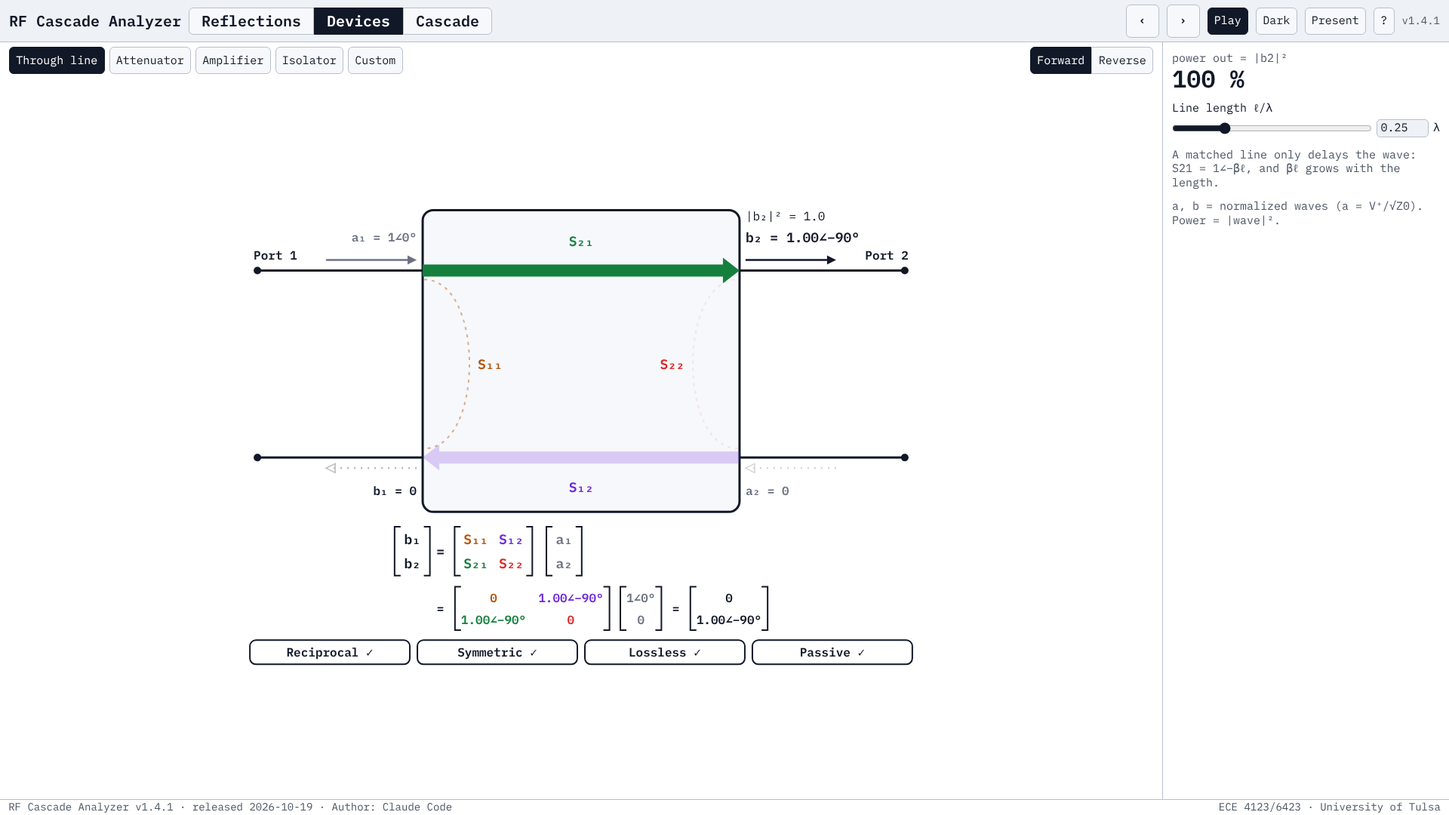
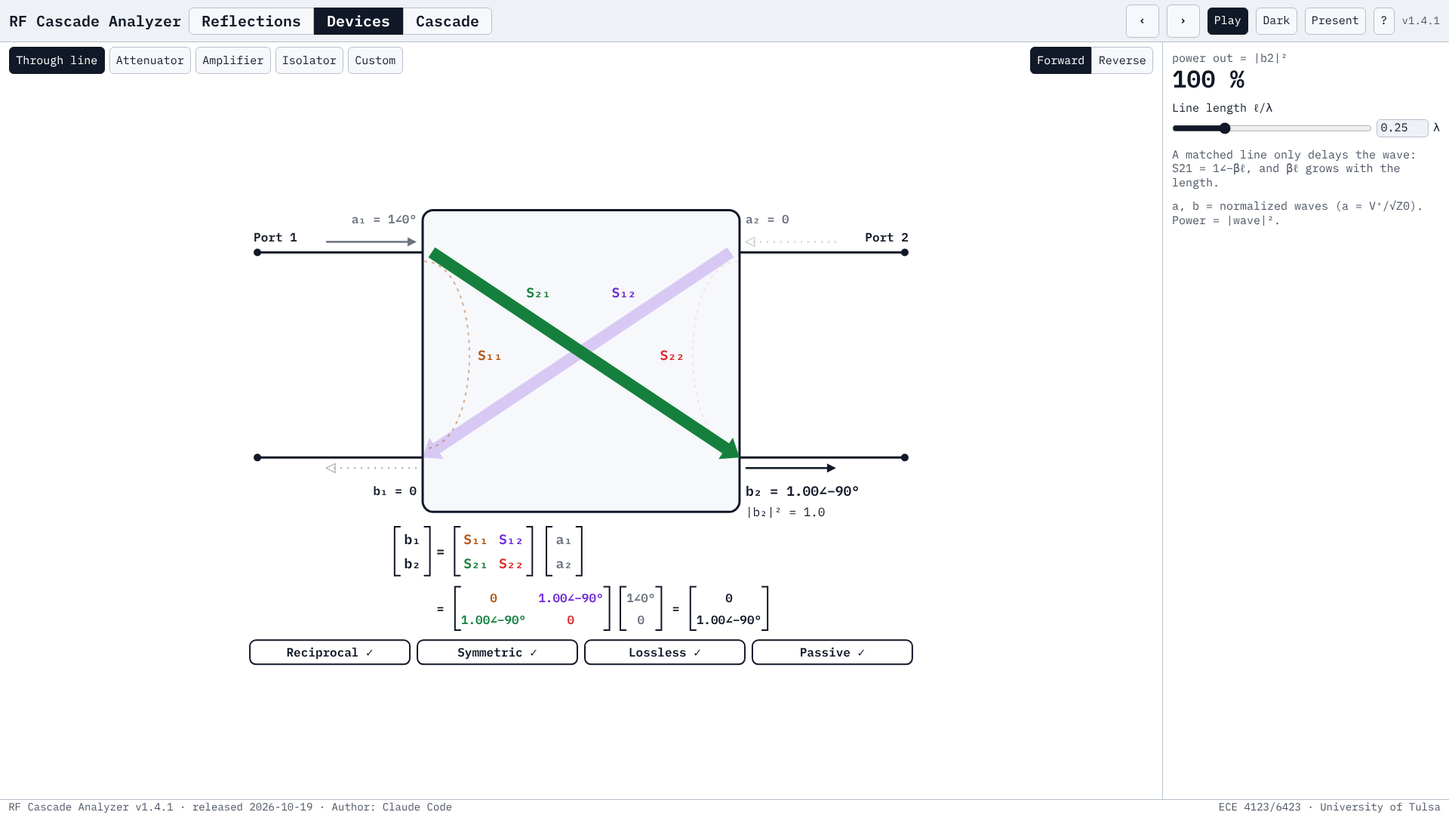
RF Cascade Analyzer v1.4.1: Devices as the textbook two-port signal-flow graph
Per Douglas: a on top and b on the bottom at both ports. Each port's two
terminal wires sit at its a node (top) and b node (bottom); a1 and a2
come in above the top wires, b1 and b2 go out below the bottom wires
(the power line below the driven b label). Inside, S21 runs a1 -> b2 and
S12 a2 -> b1 as crossing diagonals (power-tapered as before, drawn along
a rotated axis), S11 runs a1 -> b1 down port 1 and S22 a2 -> b2 down
port 2. Tests updated (node positions, sampled outlines for the diagonal
lanes).

Claude-Session: https://claude.ai/code/session_01K91XZ2Ca3dbV4NeCriL9c8

Changed region(s): [[0.1562, 0.2444, 0.625, 0.5806], [0.5312, 0.5806, 0.5938, 0.6111], [0.3125, 0.4278, 0.3438, 0.4583]]

diff --git a/ece-4123/RF_Cascade_Analyzer_src/tests/browser.test.js b/ece-4123/RF_Cascade_Analyzer_src/tests/browser.test.js
@@ -136,17 +136,19 @@ const devGapIssues = page => page.evaluate(() => {
   g('matrix rows from left edge', Math.min(mat.left, num.left) - svg.left, 16); g('matrix rows from divider', svg.right - Math.max(mat.right, num.right), 16);
   g('row 1 → row 2', num.top - mat.bottom, 4);
   const pl = [...document.querySelectorAll('#stage .portline')], cyOf = e => { const r = R(e); return (r.top + r.bottom) / 2; };
-  const yT = cyOf(document.querySelector('#stage .lane.s21')), yB = cyOf(document.querySelector('#stage .lane.s12'));
+  const ends = k => { const e = document.querySelector('#stage .lane.' + k), M = e.getScreenCTM(), xs = e.getAttribute('d').match(/-?[\d.]+/g).map(Number).filter((_, i) => i % 2 === 0), P = (x, y) => new DOMPoint(x, y).matrixTransform(M); return [P(0, 0), P(Math.max(...xs), 0)]; };
+  const yT = ends('s21')[0].y, yB = ends('s21')[1].y;   // the a nodes (top) and b nodes (bottom)
   if(pl.length !== 4) bad.push('port wires: ' + pl.length);
   if(document.querySelectorAll('#stage .term').length !== 4) bad.push('terminal dots: ' + document.querySelectorAll('#stage .term').length);
   pl.forEach(l => { const r = R(l), cs = getComputedStyle(l), port = l.dataset.port;
     if(cs.strokeDasharray !== 'none' || l.closest('[opacity]') || l.getAttribute('stroke') !== 'var(--txt)' || +l.getAttribute('stroke-width') !== 3) bad.push('port line ' + port + ' not solid');
     const y = (r.top + r.bottom) / 2; if(Math.min(Math.abs(y - yT), Math.abs(y - yB)) > 1) bad.push('port wire ' + port + ' not in line with a lane');
     if(port === '1' ? (Math.abs(r.left - svg.left - 21 * k) > 1 || Math.abs(r.right - box.left) > 2) : (Math.abs(svg.right - r.right - 21 * k) > 1 || Math.abs(r.left - box.right) > 2)) bad.push('port line ' + port + ' ends'); });
-  const inkR = [...document.querySelectorAll('#stage .lane, #stage .uturn, #stage .brk')].map(e => { const r = R(e), sw = parseFloat(getComputedStyle(e).strokeWidth) || 0, o = e.classList.contains('uturn') ? sw / 2 * k : 0;
-    return { l: r.left - o, r: r.right + o, t: r.top - o, b: r.bottom + o }; });
+  // the paths' outlines sampled on screen (lanes may be diagonal, so their boxes say nothing), less half a stroke
+  const ink = [...document.querySelectorAll('#stage .lane, #stage .uturn, #stage .brk')].flatMap(e => { const M = e.getScreenCTM(), Ln = e.getTotalLength(), o = e.classList.contains('lane') ? 0 : (parseFloat(getComputedStyle(e).strokeWidth) || 0) / 2 * k, out = [];
+    for(let t = 0; t <= Ln; t += 1.5){ const p = e.getPointAtLength(t), q = new DOMPoint(p.x, p.y).matrixTransform(M); out.push([q.x, q.y, o]); } return out; });
   ['vs11', 'vs21', 'vs12', 'vs22'].forEach(id => { const t = R(document.getElementById(id));
-    inkR.forEach(q => { const dx = Math.max(q.l - t.right, t.left - q.r, 0), dy = Math.max(q.t - t.bottom, t.top - q.b, 0); if(Math.max(dx, dy) < 8 * k - 0.5) bad.push(id + ' within 8 px of a path'); }); });
+    const dmin = Math.min(...ink.map(([x, y, o]) => Math.hypot(Math.max(t.left - x, 0, x - t.right), Math.max(t.top - y, 0, y - t.bottom)) - o)); if(dmin < 8 * k - 0.5) bad.push(id + ' within 8 px of a path (' + dmin.toFixed(1) + ')'); });
   const texts = [...document.querySelectorAll('#stage svg text')].filter(t => !t.closest('.matrix, .badge, .numrow'));
   texts.forEach(t => { const r = R(t), name = t.id || t.textContent.slice(0, 12); g(name + ' from left edge', r.left - svg.left, 16); g(name + ' from divider', svg.right - r.right, 16);
     const inside = r.left < box.right && r.right > box.left && r.top < box.bottom && r.bottom > box.top, sLab = /^vs(11|21|12|22)$/.test(t.id);
@@ -299,7 +301,7 @@ const alignIssues = page => page.evaluate(() => {
     // lanes (S21, S12) and U-turns (S11, S22): |S|, end width, blocked / capped flags, the group's drive state and opacity
     const paths = () => page.evaluate(() => Object.fromEntries([...document.querySelectorAll('#stage .lane, #stage .uturn')].map(e => [e.getAttribute('data-q'),
       { v: +e.getAttribute('data-v'), w1: +e.getAttribute('data-w1'), lane: e.classList.contains('lane'), blocked: e.getAttribute('data-blocked') === '1', cap: e.getAttribute('data-capped') === '1',
-        dotted: !!e.getAttribute('stroke-dasharray'), op: +(e.getAttribute('opacity') || 1), live: e.parentElement.getAttribute('data-live') === '1', gop: +(e.parentElement.getAttribute('opacity') || 1) }])));
+        dotted: !!e.getAttribute('stroke-dasharray'), op: +(e.getAttribute('opacity') || 1), live: e.closest('.pathg').getAttribute('data-live') === '1', gop: +(e.closest('.pathg').getAttribute('opacity') || 1) }])));
     // a lane's drawn width (design units) at its entry and just before its arrowhead
     const laneW = k => page.evaluate(k => { const e = document.querySelector('#stage .lane.' + k);
       const n = e.getAttribute('d').match(/-?[\d.]+/g).map(Number), pts = []; for(let i = 0; i < n.length; i += 2) pts.push([n[i], n[i + 1]]);
@@ -344,23 +346,28 @@ const alignIssues = page => page.evaluate(() => {
     check('inside the box: only the four S labels (no "Two-Port", dB caption, ruler or isolator text)', noText === 'vs11,vs12,vs21,vs22', noText);
     check('the box is a plain rounded rectangle (rx 14, 3 px border); no header line', await page.evaluate(() => { const b = document.querySelector('#stage .box');
       return b.getAttribute('rx') === '14' && b.getAttribute('stroke-width') === '3' && !document.querySelector('#stage .headline, #stage .boxTitle, #boxCaption'); }));
-    check('port layout (two-port symbol, signal flow): two terminal wires per port with dots at the outer ends, in line with the S21 (top) and S12 (bottom) lanes; "Port 1/2" above the wires; a1 in above and b1 out below at port 1, b2 out above and a2 in below at port 2; S11 loops from port 1 top to bottom, S22 from port 2 bottom to top', await page.evaluate(() => {
+    check('port layout (textbook two-port signal-flow graph): two terminal wires per port with dots at the outer ends — the top wires at the a nodes, the bottom wires at the b nodes; "Port 1/2" above the wires; a1 and a2 in above the top wires, b1 and b2 out below the bottom wires; S21 a1 → b2 and S12 a2 → b1 cross; S11 runs down port 1 (a1 → b1), S22 down port 2 (a2 → b2)', await page.evaluate(() => {
       const q = s => document.querySelector('#stage ' + s), r = n => q('.wave[data-q="' + n + '"]').getBoundingClientRect(), cy = e => { const b = e.getBoundingClientRect(); return (b.top + b.bottom) / 2; };
       const dir = n => -Math.sign(+q('.wave[data-q="' + n + '"] path:last-child').getAttribute('d').match(/^M(-?[\d.]+) -?[\d.]+l(-?[\d.]+)/)[2]);
-      const yT = cy(q('.lane.s21')), yB = cy(q('.lane.s12')), box = q('.box').getBoundingClientRect();
+      const ends = k => { const e = document.querySelector('#stage .lane.' + k), M = e.getScreenCTM(), xs = e.getAttribute('d').match(/-?[\d.]+/g).map(Number).filter((_, i) => i % 2 === 0), P = (x, y) => new DOMPoint(x, y).matrixTransform(M); return [P(0, 0), P(Math.max(...xs), 0)]; };
+      const [a1, b2] = ends('s21'), [a2, b1] = ends('s12'), yT = a1.y, yB = b2.y, box = q('.box').getBoundingClientRect();
       const wires = n => [...document.querySelectorAll('#stage .portline[data-port="' + n + '"]')].map(cy).sort((a, b) => a - b);
       const ports = [...document.querySelectorAll('#stage .port')].map(e => e.getBoundingClientRect()), u11 = q('.uturn.s11').getBoundingClientRect(), u22 = q('.uturn.s22').getBoundingClientRect();
-      const inLine = (w) => w.length === 2 && Math.abs(w[0] - yT) < 1 && Math.abs(w[1] - yB) < 1;
+      const inLine = (w) => w.length === 2 && Math.abs(w[0] - yT) < 1 && Math.abs(w[1] - yB) < 1, near = (p, x, y) => Math.abs(p.x - x) < 16 && Math.abs(p.y - y) < 1;
       return inLine(wires(1)) && inLine(wires(2)) && document.querySelectorAll('#stage .term').length === 4
-        && r('a1').bottom <= yT && r('b1').top >= yB && r('b2').bottom <= yT && r('a2').top >= yB && dir('a1') === 1 && dir('b1') === -1 && dir('b2') === 1 && dir('a2') === -1
+        && near(a1, box.left, yT) && near(b2, box.right, yB) && near(a2, box.right, yT) && near(b1, box.left, yB) && Math.abs(a2.y - yT) < 1 && Math.abs(b1.y - yB) < 1
+        && r('a1').bottom <= yT && r('a2').bottom <= yT && r('b1').top >= yB && r('b2').top >= yB && dir('a1') === 1 && dir('b1') === -1 && dir('a2') === -1 && dir('b2') === 1
         && ['a1', 'b1', 'b2', 'a2'].every(n => Math.abs(r(n).width - 120) < 2) && ports.length === 2 && ports.every(p => p.bottom <= yT)
         && u11.left >= box.left - 1 && u11.top >= yT && u11.bottom <= yB && u11.bottom - u11.top > 0.6 * (yB - yT) && u22.right <= box.right + 1 && u22.top >= yT && u22.bottom <= yB; }));
-    check('no crossing paths: S21 lane straight along the top, S12 along the bottom', await page.evaluate(() => { const a = document.querySelector('#stage .lane.s21').getBoundingClientRect(), b = document.querySelector('#stage .lane.s12').getBoundingClientRect(); return a.bottom < b.top; }));
+    check('paths stay inside the box (the crossing diagonals start inset from the a corners)', await page.evaluate(() => { const box = document.querySelector('#stage .box').getBoundingClientRect();
+      // sampled outline points (a rotated lane's bounding box is the box of its rotated rectangle, not of the shape)
+      return [...document.querySelectorAll('#stage .lane')].every(e => { const M = e.getScreenCTM(), Ln = e.getTotalLength();
+        for(let t = 0; t <= Ln; t += 1){ const p = e.getPointAtLength(t), q = new DOMPoint(p.x, p.y).matrixTransform(M); if(q.x < box.left - 0.5 || q.x > box.right + 0.5 || q.y < box.top || q.y > box.bottom) return false; } return true; }); }));
     check('Forward: S21 lane and S11 U-turn solid; S12 and S22 faded to 22 %; undriven a2 wire dotted', await (async () => { const P = await paths(), g = await ghostW();
       return P.S21.live && P.S11.live && P.S21.gop === 1 && near(P.S12.gop, 0.22, 1e-9) && near(P.S22.gop, 0.22, 1e-9) && g.a2 && !g.a1; })());
-    check('S tags: S21 above the top lane, S12 below the bottom lane, S11 and S22 between the lanes (S11 left of S22)', await page.evaluate(() => { const R = id => document.getElementById(id).getBoundingClientRect();
-      const t = document.querySelector('#stage .lane.s21').getBoundingClientRect(), b = document.querySelector('#stage .lane.s12').getBoundingClientRect();
-      return R('vs21').bottom <= t.top && R('vs12').top >= b.bottom && ['vs11', 'vs22'].every(id => R(id).top >= t.bottom && R(id).bottom <= b.top) && R('vs11').right < R('vs22').left; }));
+    check('S tags: S21 and S12 above the crossing, each beside its own diagonal near its a node (S21 left, S12 right); S11 left of S22 at mid height; all inside the box', await page.evaluate(() => { const R = id => document.getElementById(id).getBoundingClientRect(), c = r => [(r.left + r.right) / 2, (r.top + r.bottom) / 2];
+      const box = document.querySelector('#stage .box').getBoundingClientRect(), midY = (box.top + box.bottom) / 2, [x21, y21] = c(R('vs21')), [x12, y12] = c(R('vs12'));
+      return y21 < midY && y12 < midY && x21 < x12 && R('vs11').right < R('vs22').left && ['vs11', 'vs21', 'vs12', 'vs22'].every(id => { const r = R(id); return r.left > box.left && r.right < box.right && r.top > box.top && r.bottom < box.bottom; }); }));
     check('S11 0 drawn as a faint dotted U (2 px, 45 % opacity) when |S| < 0.05; tag "S11" in the box, "0" in the matrix', await (async () => { const P = await paths(); return P.S11.dotted && near(P.S11.op, 0.45, 1e-9) && (await sLab('s11')) === 'S11' && (await ent('s11')) === '0'; })());
     check('the driven output label (b2 in Forward) is 18 px bold, the others 16 px; its |b2|² line 16 px regular', JSON.stringify(await outLabel()) === '{"size":18,"weight":"700"}' && +(await page.getAttribute('#wb1', 'font-size')) === 16
       && +(await page.getAttribute('#pb2', 'font-size')) === 16 && (await page.getAttribute('#pb2', 'font-weight')) === '400');
@@ -407,9 +414,9 @@ const alignIssues = page => page.evaluate(() => {
       check('B.4 ' + name + ': row 2 ' + want, got === want && drawn === want && same, { got, drawn, W });
     }
     await goto(page, '#view=devices&device=through&drive=fwd');
-    check('B.1 Through Forward: "|b2|² = 1.0" above "b2 = 1.00∠−90°", clear of "Port 2"', await page.evaluate(() => { const R = id => document.getElementById(id).getBoundingClientRect();
+    check('B.1 Through Forward: "|b2|² = 1.0" on the outer side of "b2 = 1.00∠−90°" (below it: b2 is on the bottom wire), clear of "Port 2"', await page.evaluate(() => { const R = id => document.getElementById(id).getBoundingClientRect();
       const p = R('pb2'), w = R('wb2'), port = [...document.querySelectorAll('#stage .port')][1].getBoundingClientRect();
-      return p.bottom <= w.top && !(p.left < port.right && port.left < p.right && p.top < port.bottom && port.top < p.bottom) && document.getElementById('pb2').textContent === '|b₂|² = 1.0'; }));
+      return p.top >= w.bottom && !(p.left < port.right && port.left < p.right && p.top < port.bottom && port.top < p.bottom) && document.getElementById('pb2').textContent === '|b₂|² = 1.0'; }));
     check('B.2 no S value inside the box; each name tag once', await page.evaluate(S => { const f = eval(S); return ['s11', 's21', 's12', 's22'].every(k => f(document.getElementById('v' + k).textContent) === 'S' + k.slice(1))
       && [...document.querySelectorAll('#stage svg text')].filter(t => /^S(11|21|12|22)$/.test(f(t.textContent)) && !t.closest('.matrix')).length === 4; }, SUBS));
     await goto(page, '#view=devices&device=through&drive=rev');

diff --git a/ece-4123/RF_Cascade_Analyzer_v1.4.1.html b/ece-4123/RF_Cascade_Analyzer_v1.4.1.html
@@ -848,15 +848,16 @@ const W_CAP = 3;                 // widths above 3 W0 are capped and drawn with 
 const U_MIN = 2;                 // a U-turn's stroke is never thinner than this
 /* Layout (design units = px at 1280×720). The matrix rows and badges are stacked from the bottom up (gaps as in v1.2.0:
    badges 12 above the bottom, the numeric row 12 above the badges); the box takes the height left above them (at most
-   boxMax; in a taller drawing the whole stack is centred). The two-port as a signal-flow graph: each port is two
-   terminal wires (dots at the outer ends) in line with the paths inside — the top wires at the S21 lane (laneT below
-   the box top), the bottom wires at the S12 lane (laneB above its bottom) — so S21 runs port 1 top → port 2 top, S12
-   port 2 bottom → port 1 bottom, S11 loops port 1 top → bottom (uEnd inside the corners) and S22 port 2 bottom → top.
-   Waves: a1 in above port 1's top wire, b1 out below its bottom wire; b2 out above port 2's top wire, a2 in below its
-   bottom wire; arrows arrowL long, wOff from the wire, ending armGap from the box; labels labOff further out, the power
-   line pwrGap beyond its label; "Port 1/2" above the top wire at the outer end (portUp). */
-const LY_D = { xl: 240, xr: 660, top: 8, laneT: 80, laneB: 72, edge: 16, uDepth: 80, uEnd: 12, boxMax: 400, tagGap: 10, badgeH: 32, gapEdge: 12,
-               numHalf: 30, gapNum: 12, matHalf: 36, gapMat: 10, gapBox: 16, termR: 5, wOff: 14, arrowL: 120, armGap: 8, labOff: 30, pwrGap: 28, portUp: 20 };
+   boxMax; in a taller drawing the whole stack is centred). The two-port as the textbook signal-flow graph: each port is
+   two terminal wires (dots at the outer ends), the incident wave a on the top wire and the reflected wave b on the
+   bottom wire at both ports (yT laneT below the box top, yB laneB above its bottom). Inside, the paths join the nodes:
+   S21 a1 → b2 and S12 a2 → b1 as crossing diagonals (starting inset inside the box so their square ends stay in it), S11 a1 → b1 down the left and S22 a2 → b2 down the right (loops
+   uDepth into the box, ending uEnd inside the corners). Waves: a in above the top wire, b out below the bottom wire;
+   arrows arrowL long, wOff from the wire, ending armGap from the box; labels labOff further out, the power line
+   pwrGap below its b label; "Port 1/2" above the top wire at the outer end (portUp). S tags on the paths' upper side,
+   tagAt of the way along the diagonals. */
+const LY_D = { xl: 240, xr: 660, top: 8, laneT: 56, laneB: 72, edge: 16, uDepth: 80, uEnd: 12, boxMax: 400, tagGap: 10, badgeH: 32, gapEdge: 12,
+               numHalf: 30, gapNum: 12, matHalf: 36, gapMat: 10, gapBox: 16, tagAt: 0.3, inset: 12, termR: 5, wOff: 14, arrowL: 120, armGap: 8, labOff: 30, pwrGap: 28, portUp: 20 };
 // Vertical positions for a drawing H units tall: box top, badge, numeric row and matrix centres, box bottom.
 function geoD(H){
   const L = LY_D, stack = L.gapEdge + L.badgeH + L.gapNum + 2 * L.numHalf + L.gapMat + 2 * L.matHalf + L.gapBox;
@@ -922,12 +923,12 @@ function lineArrow(x0, x1, y, col, ghost, q, v){
 // Width of a path for power p = |S|²: W0·p, capped at W_CAP·W0.
 const pathW = p => W0 * Math.min(p, W_CAP);
 /* A lane from x0 (width W0) to x1 (width w1 for power p) along y, arrowhead at x1. A blocked lane (|S| < S_BLOCK) is a
-   wedge closing to a point at x1, with a red ✕ just outside the box there. Above the cap a break mark crosses the lane
+   wedge closing to a point at x1, with a red ✕ just beyond it (outside the box). Above the cap a break mark crosses the lane
    90 units past its centre. k: the S key; the lane carries data-q / data-v (|S|) and its end width for the tests.
    Returns { svg, mark }: mark (the ✕) is drawn outside the lane's group, so it stays strong when the lane fades. */
 function laneSvg(k, x0, x1, y, m){
   const d = Math.sign(x1 - x0), p = m * m, col = 'var(--' + k + ')', len = Math.abs(x1 - x0), at = { class: 'lane ' + k, 'data-q': S_NAME[k], 'data-v': +m.toPrecision(12) };
-  if(m < S_BLOCK){ const xx = x1 + d * 14;
+  if(m < S_BLOCK){ const xx = x1 + d * 22;
     return { svg: el('path', Object.assign(at, { d: 'M' + x0 + ' ' + n2(y - W0 / 2) + 'L' + x1 + ' ' + n2(y) + 'L' + x0 + ' ' + n2(y + W0 / 2) + 'Z', fill: col, 'data-w1': 0, 'data-blocked': 1 })),
       mark: el('g', { class: 'xmark', 'data-s': k }, crossMark(xx, y, 11, 'var(--bad)')) }; }
   const w1 = pathW(p), head = 22, xb = x1 - d * head, wb = W0 + (w1 - W0) * (len - head) / len, hw = Math.max(w1, 4) / 2 + 9;
@@ -937,6 +938,12 @@ function laneSvg(k, x0, x1, y, m){
     s += el('path', { d: 'M' + n2(xm - 8) + ' ' + n2(y + wm / 2 + 4) + 'L' + n2(xm + 2) + ' ' + n2(y - wm / 2 - 4) + 'M' + n2(xm + 6) + ' ' + n2(y + wm / 2 + 4) + 'L' + n2(xm + 16) + ' ' + n2(y - wm / 2 - 4),
       stroke: 'var(--bg)', 'stroke-width': 5, class: 'brk' }); }
   return { svg: s, mark: '' };
+}
+/* A lane from point (ax, ay) to (bx, by) in any direction: laneSvg drawn along the local x axis and turned into place,
+   so its shape (and the tests' width readings) stay in lane coordinates. Returns { svg, mark } like laneSvg. */
+function laneAlong(k, ax, ay, bx, by, m){
+  const len = Math.hypot(bx - ax, by - ay), tf = 'translate(' + n2(ax) + ' ' + n2(ay) + ') rotate(' + n2(Math.atan2(by - ay, bx - ax) * DEG) + ')', L0 = laneSvg(k, 0, len, 0, m);
+  return { svg: el('g', { transform: tf }, L0.svg), mark: L0.mark ? el('g', { transform: tf }, L0.mark) : '' };
 }
 /* A reflection U-turn inside the box at a port: from just below/above the port's in-wire, uDepth into the box, back out
    beside the out-wire with an arrowhead pointing out of the port. Stroke W0·|S|² (at least U_MIN); a dotted outline when
@@ -950,42 +957,45 @@ function uTurnSvg(k, xe, yIn, yOut, m){
     + el('path', { d: 'M' + n2(xt) + ' ' + n2(yOut) + 'L' + n2(xe + d * 6) + ' ' + n2(yOut - w / 2 - 8) + 'L' + n2(xe + d * 6) + ' ' + n2(yOut + w / 2 + 8) + 'Z', fill: col, class: 'uhead' }),
     reach: LY_D.uDepth * 0.75 + w / 2 };
 }
-/* The two-port for device kind/params p in a drawing H units tall, as a signal-flow graph: a plain box holding the S21 and
-   S12 lanes and the S11, S22 loops with their name tags (no values: those are in the matrix), joined to the ports' two
-   terminal wires; outside it the wave arrows beside the wires with their labels, the driven output's power line, and
-   "Port 1", "Port 2" above the wires. */
+/* The two-port for device kind/params p in a drawing H units tall, as the textbook signal-flow graph: a plain box holding
+   the four paths between the port nodes (a1, a2 at the top, b1, b2 at the bottom) with their name tags (no values:
+   those are in the matrix), joined to the ports' two terminal wires; outside it the wave arrows beside the wires with
+   their labels, the driven output's power line, and "Port 1", "Port 2" above the wires. */
 function drawTwoPort(H, kind, p){
   const S = deviceS(kind, p), w = deviceWaves(S), on = DRIVE_PATHS[D.drive], fwd = D.drive === 'fwd', L = LY_D, G = geoD(H);
-  const xl = L.xl, xr = L.xr, by = G.by, bb = G.bb, yT = by + L.laneT, yB = bb - L.laneB, mid = (yT + yB) / 2, cx = (xl + xr) / 2;
+  const xl = L.xl, xr = L.xr, by = G.by, bb = G.bb, yT = by + L.laneT, yB = bb - L.laneB, mid = (yT + yB) / 2;
   const M = k => cabs(S[k]), op = k => (on.includes(k) ? null : FADE), wEnd = k => (M(k) < S_BLOCK ? 0 : pathW(M(k) ** 2));
   let s = el('rect', { x: xl, y: by, width: xr - xl, height: bb - by, rx: 14, fill: 'var(--panel)', stroke: 'var(--txt)', 'stroke-width': 3, class: 'box' });
-  // paths: S21 a1 → b2 along the top, S12 a2 → b1 along the bottom, S11 a1 → b1 down the left, S22 a2 → b2 up the right;
-  // the faded ones first so the driven ones sit on top
-  const u11 = uTurnSvg('s11', xl + 2, yT + L.uEnd, yB - L.uEnd, M('s11')), u22 = uTurnSvg('s22', xr - 2, yB - L.uEnd, yT + L.uEnd, M('s22'));
-  const l21 = laneSvg('s21', xl, xr, yT, M('s21')), l12 = laneSvg('s12', xr, xl, yB, M('s12')), parts = { s21: l21.svg, s12: l12.svg, s11: u11.svg, s22: u22.svg };
+  // paths: S21 a1 → b2 and S12 a2 → b1 crossing, S11 a1 → b1 down the left, S22 a2 → b2 down the right; the faded ones
+  // first so the driven ones sit on top
+  const u11 = uTurnSvg('s11', xl + 2, yT + L.uEnd, yB - L.uEnd, M('s11')), u22 = uTurnSvg('s22', xr - 2, yT + L.uEnd, yB - L.uEnd, M('s22'));
+  const l21 = laneAlong('s21', xl + L.inset, yT, xr, yB, M('s21')), l12 = laneAlong('s12', xr - L.inset, yT, xl, yB, M('s12')), parts = { s21: l21.svg, s12: l12.svg, s11: u11.svg, s22: u22.svg };
   S_KEYS.slice().sort((a, b) => on.includes(a) - on.includes(b)).forEach(k => { s += el('g', { class: 'pathg ' + k, 'data-s': k, 'data-live': on.includes(k) ? 1 : 0, opacity: op(k) }, parts[k]); });
   s += l21.mark + l12.mark;
-  // S name tags, tagGap clear of the paths at their widest: S21 above the top lane and S12 below the bottom lane (a
-  // lane's widest point is its arrowhead, 9 beyond the lane on each side; a blocked lane is a W0 wedge), S11 right of
-  // its loop and S22 left of its loop (which start 2 inside the box edge), halfway down
-  const half = FS.big * 0.65, edge = k => (M(k) < S_BLOCK ? W0 / 2 : Math.max(W0 / 2, Math.max(wEnd(k), 4) / 2 + 9));
+  // S name tags: S21 and S12 tagAt of the way from their a node, on the upper side, tagGap clear of the lane there; S11
+  // right of its loop and S22 left of its loop (which start 2 inside the box edge), halfway down
   const lab = (k, x, y, anchor) => txt(x, y, 'S_' + k.slice(1), { anchor, size: FS.big, fill: 'var(--' + k + ')', cls: 'slabel', id: 'v' + k });
-  s += lab('s21', cx, yT - edge('s21') - L.tagGap - half, 'middle') + lab('s12', cx, yB + edge('s12') + L.tagGap + half, 'middle');
+  const diagTag = (k, ax, ay, bx, byy) => { const len = Math.hypot(bx - ax, byy - ay), ux = (bx - ax) / len, uy = (byy - ay) / len, nx = uy * Math.sign(ux), ny = -Math.abs(ux);
+    const wAt = W0 + (Math.max(wEnd(k), M(k) < S_BLOCK ? 0 : 4) - W0) * L.tagAt, off = wAt / 2 + L.tagGap + FS.big * 0.9;
+    return lab(k, ax + (bx - ax) * L.tagAt + nx * off, ay + (byy - ay) * L.tagAt + ny * off, 'middle'); };
+  s += diagTag('s21', xl + L.inset, yT, xr, yB) + diagTag('s12', xr - L.inset, yT, xl, yB);
   s += lab('s11', xl + 2 + u11.reach + L.tagGap, mid, 'start') + lab('s22', xr - 2 - u22.reach - L.tagGap, mid, 'end');
-  // each port's two terminal wires, in line with the lanes, from a terminal dot at the outer end to the box; never faded
+  // each port's two terminal wires, at the a node (top) and the b node (bottom), from a terminal dot at the outer end
+  // to the box; never faded
   const xL = L.edge, xR = DESIGN_W - L.edge, wire2 = (x0, x1, y, port, xd) => el('line', { x1: x0, y1: y, x2: x1, y2: y, stroke: 'var(--txt)', 'stroke-width': 3, class: 'portline', 'data-port': port })
     + el('circle', { cx: xd, cy: y, r: L.termR, fill: 'var(--txt)', class: 'term' });
   for(const y of [yT, yB]) s += wire2(xL + L.termR, xl, y, 1, xL + L.termR) + wire2(xr, xR - L.termR, y, 2, xR - L.termR);
-  // wave arrows beside the wires (a grey, b text colour) and their labels on the outer side; the driven output bold
+  // wave arrows beside the wires (a grey, in above the top wire; b text colour, out below the bottom wire) and their
+  // labels on the outer side; the driven output bold, its power line below it
   const aU = yT - L.wOff, aD = yB + L.wOff, p1 = xl - L.armGap, p2 = xr + L.armGap, col = n => (n[0] === 'a' ? 'var(--grey)' : 'var(--txt)');
   const wire = (x0, x1, y, name) => lineArrow(x0, x1, y, col(name), cabs(w[name]) < S_ZERO, name, cabs(w[name]));
   const wlab = (name, x, y, anchor, big) => txt(x, y, name.replace(/(\d)$/, '_$1') + ' = ' + waveText(w[name]), { anchor, fill: col(name), size: big ? FS_OUT : FS.label, weight: big ? 700 : 600, cls: 'wlabel' + (big ? ' out' : ''), id: 'w' + name });
   const plab = (name, x, y, anchor) => txt(x, y, '|' + name.replace(/(\d)$/, '_$1') + '|² = ' + (cabs(w[name]) < S_ZERO ? '0' : sig2(cabs(w[name]) ** 2)), { anchor, fill: 'var(--txt)', size: FS.label, weight: 400, cls: 'plabel', id: 'p' + name });
   s += wire(p1 - L.arrowL, p1, aU, 'a1') + wlab('a1', p1, aU - L.labOff, 'end', false);
   s += wire(p1, p1 - L.arrowL, aD, 'b1') + wlab('b1', p1, aD + L.labOff, 'end', !fwd);
-  s += wire(p2, p2 + L.arrowL, aU, 'b2') + wlab('b2', p2, aU - L.labOff, 'start', fwd);
-  s += wire(p2 + L.arrowL, p2, aD, 'a2') + wlab('a2', p2, aD + L.labOff, 'start', false);
-  s += fwd ? plab('b2', p2, aU - L.labOff - L.pwrGap, 'start') : plab('b1', p1, aD + L.labOff + L.pwrGap, 'end');
+  s += wire(p2 + L.arrowL, p2, aU, 'a2') + wlab('a2', p2, aU - L.labOff, 'start', false);
+  s += wire(p2, p2 + L.arrowL, aD, 'b2') + wlab('b2', p2, aD + L.labOff, 'start', fwd);
+  s += fwd ? plab('b2', p2, aD + L.labOff + L.pwrGap, 'start') : plab('b1', p1, aD + L.labOff + L.pwrGap, 'end');
   s += txt(xL, yT - L.portUp, 'Port 1', { weight: 600, cls: 'port' }) + txt(xR, yT - L.portUp, 'Port 2', { anchor: 'end', weight: 600, cls: 'port' });
   return { svg: s, S, w, G };
 }

diff --git a/ece-4123/RF_Cascade_Analyzer_src/devices.js b/ece-4123/RF_Cascade_Analyzer_src/devices.js
@@ -29,15 +29,16 @@ const W_CAP = 3;                 // widths above 3 W0 are capped and drawn with 
 const U_MIN = 2;                 // a U-turn's stroke is never thinner than this
 /* Layout (design units = px at 1280×720). The matrix rows and badges are stacked from the bottom up (gaps as in v1.2.0:
    badges 12 above the bottom, the numeric row 12 above the badges); the box takes the height left above them (at most
-   boxMax; in a taller drawing the whole stack is centred). The two-port as a signal-flow graph: each port is two
-   terminal wires (dots at the outer ends) in line with the paths inside — the top wires at the S21 lane (laneT below
-   the box top), the bottom wires at the S12 lane (laneB above its bottom) — so S21 runs port 1 top → port 2 top, S12
-   port 2 bottom → port 1 bottom, S11 loops port 1 top → bottom (uEnd inside the corners) and S22 port 2 bottom → top.
-   Waves: a1 in above port 1's top wire, b1 out below its bottom wire; b2 out above port 2's top wire, a2 in below its
-   bottom wire; arrows arrowL long, wOff from the wire, ending armGap from the box; labels labOff further out, the power
-   line pwrGap beyond its label; "Port 1/2" above the top wire at the outer end (portUp). */
-const LY_D = { xl: 240, xr: 660, top: 8, laneT: 80, laneB: 72, edge: 16, uDepth: 80, uEnd: 12, boxMax: 400, tagGap: 10, badgeH: 32, gapEdge: 12,
-               numHalf: 30, gapNum: 12, matHalf: 36, gapMat: 10, gapBox: 16, termR: 5, wOff: 14, arrowL: 120, armGap: 8, labOff: 30, pwrGap: 28, portUp: 20 };
+   boxMax; in a taller drawing the whole stack is centred). The two-port as the textbook signal-flow graph: each port is
+   two terminal wires (dots at the outer ends), the incident wave a on the top wire and the reflected wave b on the
+   bottom wire at both ports (yT laneT below the box top, yB laneB above its bottom). Inside, the paths join the nodes:
+   S21 a1 → b2 and S12 a2 → b1 as crossing diagonals (starting inset inside the box so their square ends stay in it), S11 a1 → b1 down the left and S22 a2 → b2 down the right (loops
+   uDepth into the box, ending uEnd inside the corners). Waves: a in above the top wire, b out below the bottom wire;
+   arrows arrowL long, wOff from the wire, ending armGap from the box; labels labOff further out, the power line
+   pwrGap below its b label; "Port 1/2" above the top wire at the outer end (portUp). S tags on the paths' upper side,
+   tagAt of the way along the diagonals. */
+const LY_D = { xl: 240, xr: 660, top: 8, laneT: 56, laneB: 72, edge: 16, uDepth: 80, uEnd: 12, boxMax: 400, tagGap: 10, badgeH: 32, gapEdge: 12,
+               numHalf: 30, gapNum: 12, matHalf: 36, gapMat: 10, gapBox: 16, tagAt: 0.3, inset: 12, termR: 5, wOff: 14, arrowL: 120, armGap: 8, labOff: 30, pwrGap: 28, portUp: 20 };
 // Vertical positions for a drawing H units tall: box top, badge, numeric row and matrix centres, box bottom.
 function geoD(H){
   const L = LY_D, stack = L.gapEdge + L.badgeH + L.gapNum + 2 * L.numHalf + L.gapMat + 2 * L.matHalf + L.gapBox;
@@ -103,12 +104,12 @@ function lineArrow(x0, x1, y, col, ghost, q, v){
 // Width of a path for power p = |S|²: W0·p, capped at W_CAP·W0.
 const pathW = p => W0 * Math.min(p, W_CAP);
 /* A lane from x0 (width W0) to x1 (width w1 for power p) along y, arrowhead at x1. A blocked lane (|S| < S_BLOCK) is a
-   wedge closing to a point at x1, with a red ✕ just outside the box there. Above the cap a break mark crosses the lane
+   wedge closing to a point at x1, with a red ✕ just beyond it (outside the box). Above the cap a break mark crosses the lane
    90 units past its centre. k: the S key; the lane carries data-q / data-v (|S|) and its end width for the tests.
    Returns { svg, mark }: mark (the ✕) is drawn outside the lane's group, so it stays strong when the lane fades. */
 function laneSvg(k, x0, x1, y, m){
   const d = Math.sign(x1 - x0), p = m * m, col = 'var(--' + k + ')', len = Math.abs(x1 - x0), at = { class: 'lane ' + k, 'data-q': S_NAME[k], 'data-v': +m.toPrecision(12) };
-  if(m < S_BLOCK){ const xx = x1 + d * 14;
+  if(m < S_BLOCK){ const xx = x1 + d * 22;
     return { svg: el('path', Object.assign(at, { d: 'M' + x0 + ' ' + n2(y - W0 / 2) + 'L' + x1 + ' ' + n2(y) + 'L' + x0 + ' ' + n2(y + W0 / 2) + 'Z', fill: col, 'data-w1': 0, 'data-blocked': 1 })),
       mark: el('g', { class: 'xmark', 'data-s': k }, crossMark(xx, y, 11, 'var(--bad)')) }; }
   const w1 = pathW(p), head = 22, xb = x1 - d * head, wb = W0 + (w1 - W0) * (len - head) / len, hw = Math.max(w1, 4) / 2 + 9;
@@ -118,6 +119,12 @@ function laneSvg(k, x0, x1, y, m){
     s += el('path', { d: 'M' + n2(xm - 8) + ' ' + n2(y + wm / 2 + 4) + 'L' + n2(xm + 2) + ' ' + n2(y - wm / 2 - 4) + 'M' + n2(xm + 6) + ' ' + n2(y + wm / 2 + 4) + 'L' + n2(xm + 16) + ' ' + n2(y - wm / 2 - 4),
       stroke: 'var(--bg)', 'stroke-width': 5, class: 'brk' }); }
   return { svg: s, mark: '' };
+}
+/* A lane from point (ax, ay) to (bx, by) in any direction: laneSvg drawn along the local x axis and turned into place,
+   so its shape (and the tests' width readings) stay in lane coordinates. Returns { svg, mark } like laneSvg. */
+function laneAlong(k, ax, ay, bx, by, m){
+  const len = Math.hypot(bx - ax, by - ay), tf = 'translate(' + n2(ax) + ' ' + n2(ay) + ') rotate(' + n2(Math.atan2(by - ay, bx - ax) * DEG) + ')', L0 = laneSvg(k, 0, len, 0, m);
+  return { svg: el('g', { transform: tf }, L0.svg), mark: L0.mark ? el('g', { transform: tf }, L0.mark) : '' };
 }
 /* A reflection U-turn inside the box at a port: from just below/above the port's in-wire, uDepth into the box, back out
    beside the out-wire with an arrowhead pointing out of the port. Stroke W0·|S|² (at least U_MIN); a dotted outline when
@@ -131,42 +138,45 @@ function uTurnSvg(k, xe, yIn, yOut, m){
     + el('path', { d: 'M' + n2(xt) + ' ' + n2(yOut) + 'L' + n2(xe + d * 6) + ' ' + n2(yOut - w / 2 - 8) + 'L' + n2(xe + d * 6) + ' ' + n2(yOut + w / 2 + 8) + 'Z', fill: col, class: 'uhead' }),
     reach: LY_D.uDepth * 0.75 + w / 2 };
 }
-/* The two-port for device kind/params p in a drawing H units tall, as a signal-flow graph: a plain box holding the S21 and
-   S12 lanes and the S11, S22 loops with their name tags (no values: those are in the matrix), joined to the ports' two
-   terminal wires; outside it the wave arrows beside the wires with their labels, the driven output's power line, and
-   "Port 1", "Port 2" above the wires. */
+/* The two-port for device kind/params p in a drawing H units tall, as the textbook signal-flow graph: a plain box holding
+   the four paths between the port nodes (a1, a2 at the top, b1, b2 at the bottom) with their name tags (no values:
+   those are in the matrix), joined to the ports' two terminal wires; outside it the wave arrows beside the wires with
+   their labels, the driven output's power line, and "Port 1", "Port 2" above the wires. */
 function drawTwoPort(H, kind, p){
   const S = deviceS(kind, p), w = deviceWaves(S), on = DRIVE_PATHS[D.drive], fwd = D.drive === 'fwd', L = LY_D, G = geoD(H);
-  const xl = L.xl, xr = L.xr, by = G.by, bb = G.bb, yT = by + L.laneT, yB = bb - L.laneB, mid = (yT + yB) / 2, cx = (xl + xr) / 2;
+  const xl = L.xl, xr = L.xr, by = G.by, bb = G.bb, yT = by + L.laneT, yB = bb - L.laneB, mid = (yT + yB) / 2;
   const M = k => cabs(S[k]), op = k => (on.includes(k) ? null : FADE), wEnd = k => (M(k) < S_BLOCK ? 0 : pathW(M(k) ** 2));
   let s = el('rect', { x: xl, y: by, width: xr - xl, height: bb - by, rx: 14, fill: 'var(--panel)', stroke: 'var(--txt)', 'stroke-width': 3, class: 'box' });
-  // paths: S21 a1 → b2 along the top, S12 a2 → b1 along the bottom, S11 a1 → b1 down the left, S22 a2 → b2 up the right;
-  // the faded ones first so the driven ones sit on top
-  const u11 = uTurnSvg('s11', xl + 2, yT + L.uEnd, yB - L.uEnd, M('s11')), u22 = uTurnSvg('s22', xr - 2, yB - L.uEnd, yT + L.uEnd, M('s22'));
-  const l21 = laneSvg('s21', xl, xr, yT, M('s21')), l12 = laneSvg('s12', xr, xl, yB, M('s12')), parts = { s21: l21.svg, s12: l12.svg, s11: u11.svg, s22: u22.svg };
+  // paths: S21 a1 → b2 and S12 a2 → b1 crossing, S11 a1 → b1 down the left, S22 a2 → b2 down the right; the faded ones
+  // first so the driven ones sit on top
+  const u11 = uTurnSvg('s11', xl + 2, yT + L.uEnd, yB - L.uEnd, M('s11')), u22 = uTurnSvg('s22', xr - 2, yT + L.uEnd, yB - L.uEnd, M('s22'));
+  const l21 = laneAlong('s21', xl + L.inset, yT, xr, yB, M('s21')), l12 = laneAlong('s12', xr - L.inset, yT, xl, yB, M('s12')), parts = { s21: l21.svg, s12: l12.svg, s11: u11.svg, s22: u22.svg };
   S_KEYS.slice().sort((a, b) => on.includes(a) - on.includes(b)).forEach(k => { s += el('g', { class: 'pathg ' + k, 'data-s': k, 'data-live': on.includes(k) ? 1 : 0, opacity: op(k) }, parts[k]); });
   s += l21.mark + l12.mark;
-  // S name tags, tagGap clear of the paths at their widest: S21 above the top lane and S12 below the bottom lane (a
-  // lane's widest point is its arrowhead, 9 beyond the lane on each side; a blocked lane is a W0 wedge), S11 right of
-  // its loop and S22 left of its loop (which start 2 inside the box edge), halfway down
-  const half = FS.big * 0.65, edge = k => (M(k) < S_BLOCK ? W0 / 2 : Math.max(W0 / 2, Math.max(wEnd(k), 4) / 2 + 9));
+  // S name tags: S21 and S12 tagAt of the way from their a node, on the upper side, tagGap clear of the lane there; S11
+  // right of its loop and S22 left of its loop (which start 2 inside the box edge), halfway down
   const lab = (k, x, y, anchor) => txt(x, y, 'S_' + k.slice(1), { anchor, size: FS.big, fill: 'var(--' + k + ')', cls: 'slabel', id: 'v' + k });
-  s += lab('s21', cx, yT - edge('s21') - L.tagGap - half, 'middle') + lab('s12', cx, yB + edge('s12') + L.tagGap + half, 'middle');
+  const diagTag = (k, ax, ay, bx, byy) => { const len = Math.hypot(bx - ax, byy - ay), ux = (bx - ax) / len, uy = (byy - ay) / len, nx = uy * Math.sign(ux), ny = -Math.abs(ux);
+    const wAt = W0 + (Math.max(wEnd(k), M(k) < S_BLOCK ? 0 : 4) - W0) * L.tagAt, off = wAt / 2 + L.tagGap + FS.big * 0.9;
+    return lab(k, ax + (bx - ax) * L.tagAt + nx * off, ay + (byy - ay) * L.tagAt + ny * off, 'middle'); };
+  s += diagTag('s21', xl + L.inset, yT, xr, yB) + diagTag('s12', xr - L.inset, yT, xl, yB);
   s += lab('s11', xl + 2 + u11.reach + L.tagGap, mid, 'start') + lab('s22', xr - 2 - u22.reach - L.tagGap, mid, 'end');
-  // each port's two terminal wires, in line with the lanes, from a terminal dot at the outer end to the box; never faded
+  // each port's two terminal wires, at the a node (top) and the b node (bottom), from a terminal dot at the outer end
+  // to the box; never faded
   const xL = L.edge, xR = DESIGN_W - L.edge, wire2 = (x0, x1, y, port, xd) => el('line', { x1: x0, y1: y, x2: x1, y2: y, stroke: 'var(--txt)', 'stroke-width': 3, class: 'portline', 'data-port': port })
     + el('circle', { cx: xd, cy: y, r: L.termR, fill: 'var(--txt)', class: 'term' });
   for(const y of [yT, yB]) s += wire2(xL + L.termR, xl, y, 1, xL + L.termR) + wire2(xr, xR - L.termR, y, 2, xR - L.termR);
-  // wave arrows beside the wires (a grey, b text colour) and their labels on the outer side; the driven output bold
+  // wave arrows beside the wires (a grey, in above the top wire; b text colour, out below the bottom wire) and their
+  // labels on the outer side; the driven output bold, its power line below it
   const aU = yT - L.wOff, aD = yB + L.wOff, p1 = xl - L.armGap, p2 = xr + L.armGap, col = n => (n[0] === 'a' ? 'var(--grey)' : 'var(--txt)');
   const wire = (x0, x1, y, name) => lineArrow(x0, x1, y, col(name), cabs(w[name]) < S_ZERO, name, cabs(w[name]));
   const wlab = (name, x, y, anchor, big) => txt(x, y, name.replace(/(\d)$/, '_$1') + ' = ' + waveText(w[name]), { anchor, fill: col(name), size: big ? FS_OUT : FS.label, weight: big ? 700 : 600, cls: 'wlabel' + (big ? ' out' : ''), id: 'w' + name });
   const plab = (name, x, y, anchor) => txt(x, y, '|' + name.replace(/(\d)$/, '_$1') + '|² = ' + (cabs(w[name]) < S_ZERO ? '0' : sig2(cabs(w[name]) ** 2)), { anchor, fill: 'var(--txt)', size: FS.label, weight: 400, cls: 'plabel', id: 'p' + name });
   s += wire(p1 - L.arrowL, p1, aU, 'a1') + wlab('a1', p1, aU - L.labOff, 'end', false);
   s += wire(p1, p1 - L.arrowL, aD, 'b1') + wlab('b1', p1, aD + L.labOff, 'end', !fwd);
-  s += wire(p2, p2 + L.arrowL, aU, 'b2') + wlab('b2', p2, aU - L.labOff, 'start', fwd);
-  s += wire(p2 + L.arrowL, p2, aD, 'a2') + wlab('a2', p2, aD + L.labOff, 'start', false);
-  s += fwd ? plab('b2', p2, aU - L.labOff - L.pwrGap, 'start') : plab('b1', p1, aD + L.labOff + L.pwrGap, 'end');
+  s += wire(p2 + L.arrowL, p2, aU, 'a2') + wlab('a2', p2, aU - L.labOff, 'start', false);
+  s += wire(p2, p2 + L.arrowL, aD, 'b2') + wlab('b2', p2, aD + L.labOff, 'start', fwd);
+  s += fwd ? plab('b2', p2, aD + L.labOff + L.pwrGap, 'start') : plab('b1', p1, aD + L.labOff + L.pwrGap, 'end');
   s += txt(xL, yT - L.portUp, 'Port 1', { weight: 600, cls: 'port' }) + txt(xR, yT - L.portUp, 'Port 2', { anchor: 'end', weight: 600, cls: 'port' });
   return { svg: s, S, w, G };
 }
